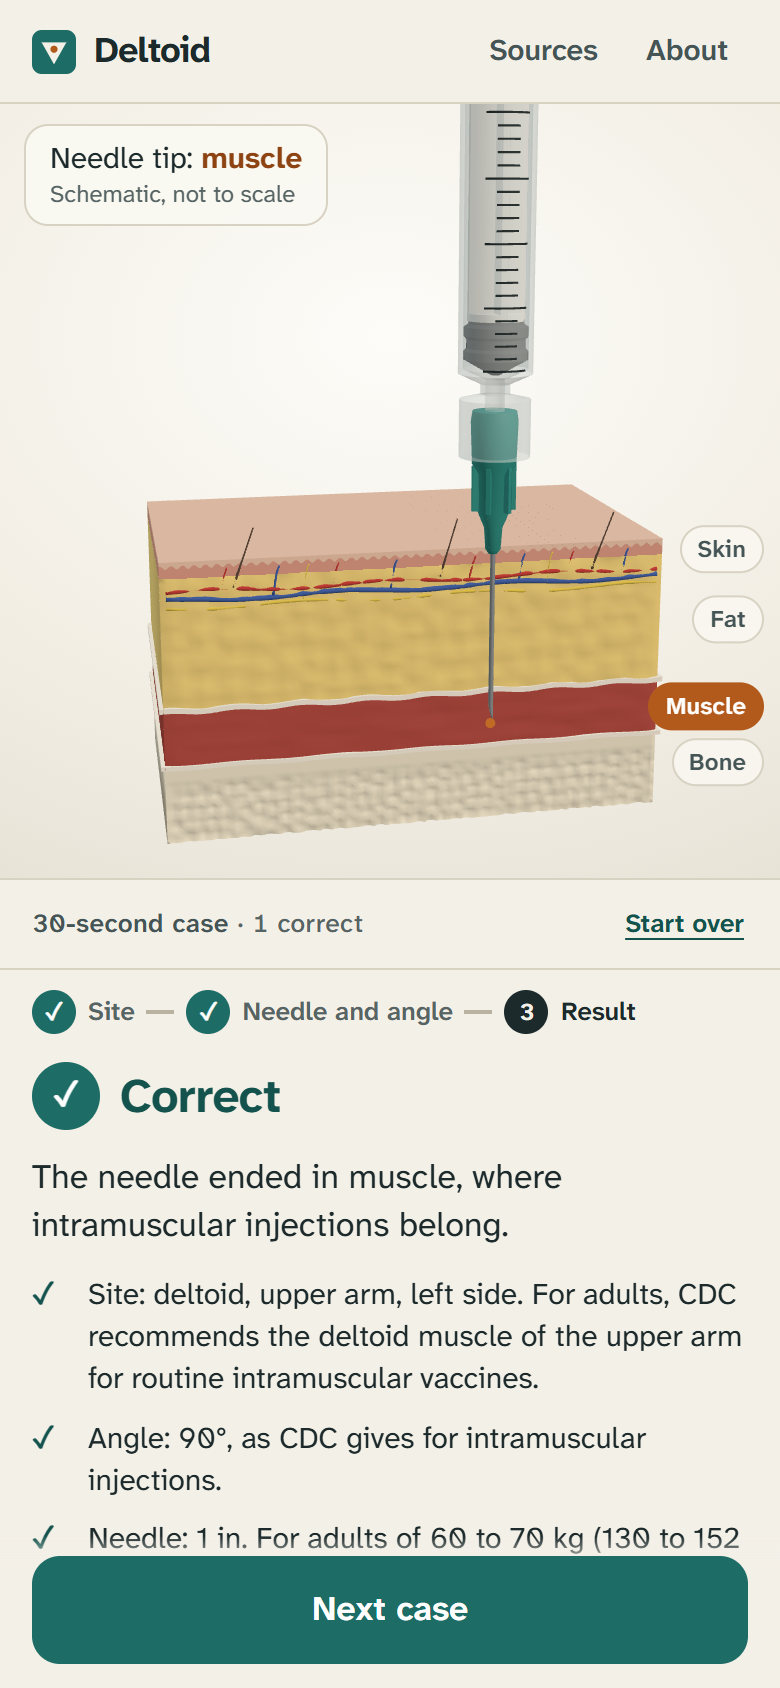
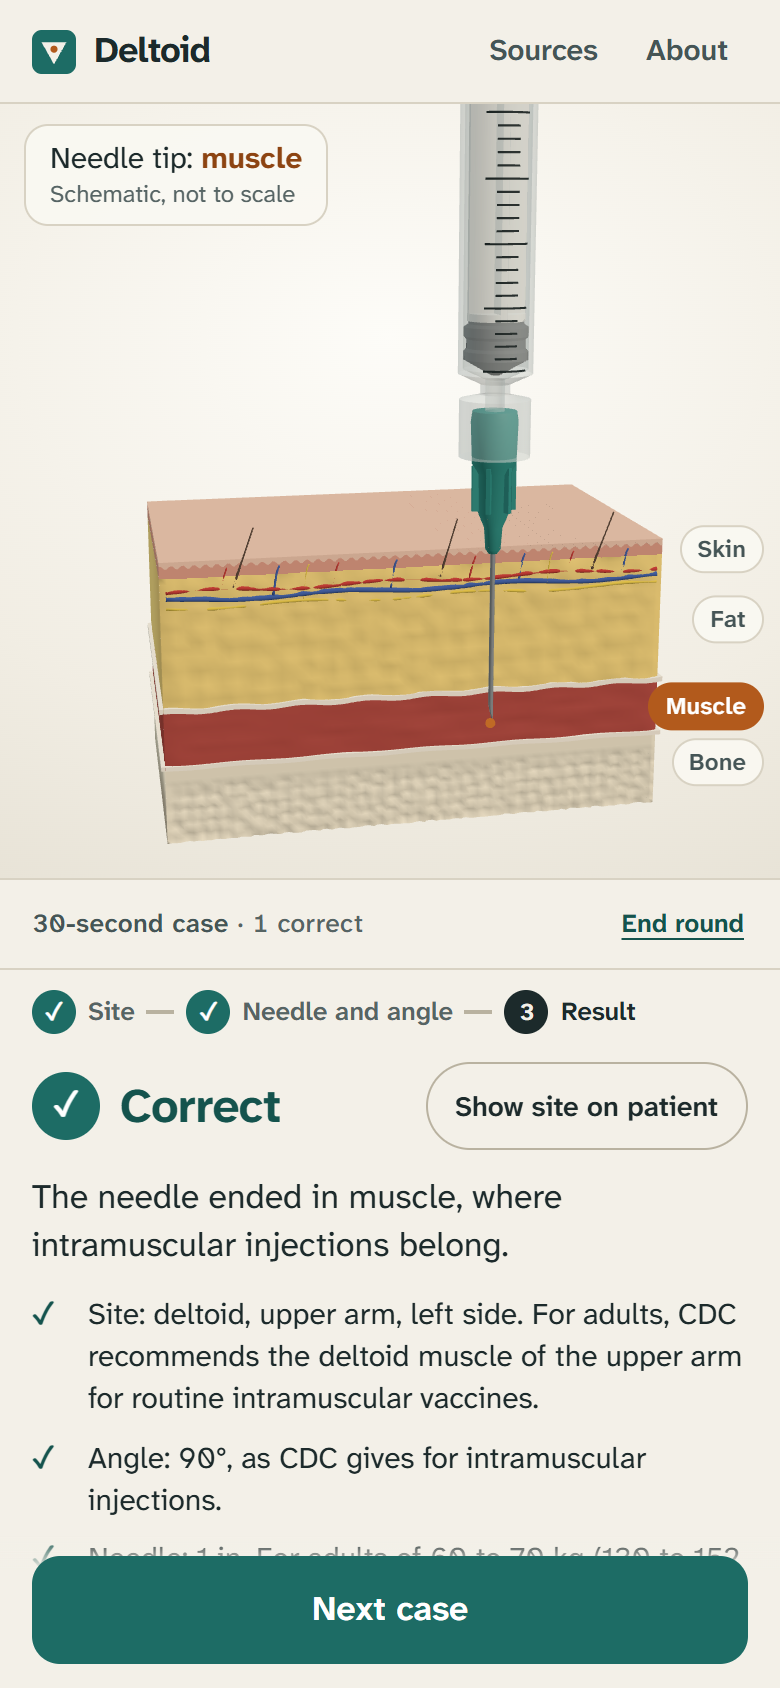
Bring the README and screenshots up to date
Covers the answer comparison, CDC's site on the patient, End round,
repeat rounds in a new order, keyboard use, the dark theme and the
contrast audit. Adds three screenshots and refreshes two.

diff --git a/README.md b/README.md
@@ -10,6 +10,11 @@ A 3D injection site trainer for medical assistants. Pick the route, tap the site
   <img src="docs/phone-cutaway.png" alt="Needle and angle controls with the tissue cutaway, the needle tip in muscle" width="24%">
   <img src="docs/phone-result.png" alt="Result: correct, with the tissue reached and the CDC source" width="24%">
 </p>
+<p>
+  <img src="docs/phone-miss.png" alt="After a miss: what you chose beside CDC's answer for the site, needle and angle" width="24%">
+  <img src="docs/phone-site-on-patient.png" alt="CDC's site shown on the patient with landmarks, and the learner's tap marked" width="24%">
+  <img src="docs/phone-dark.png" alt="Dark theme: needle and angle chosen, the tip in fat" width="24%">
+</p>
 
 ## Important
 
@@ -31,19 +36,22 @@ Those rules are spread across several CDC job aids, tables and guidelines. Delto
 
 1. **Read the case card.** It names the patient (for example "Man, 47 years, 100 kg (220 lb)"), the scenario and the route, with the route explained in plain words ("into the muscle"). Some cases add a constraint, such as "Neither upper arm can be used today."
 2. **Tap the site.** The camera starts on the body. Body, Arm, Thigh and Hip buttons move it, and you can drag to turn and pinch to zoom. "Show landmarks" makes the skin translucent and shows the bones, muscles and labelled bony points underneath. When you tap, a marker drops on the skin and the panel names what you tapped. A short bar fills, then the needle step opens. If the 3D view is hard to use, "Choose the site from a list instead" offers the same sites as buttons.
-3. **Pick a needle and an angle.** Needles run from the tuberculin needle (¼ to ½ inch) to 1½ inch, with millimetres under each inch label. Each angle button has a small drawing of the needle meeting the skin. The camera turns to a cutaway of skin, fat, muscle and bone, and the syringe moves as you choose, so you see where the tip will end before you commit.
-4. **Check the answer.** The result says "Correct" or "Not quite", which tissue the needle ended in, and what was off. Below that is one line for each part (site, angle and needle) with the CDC wording behind it and its sources. After a miss, a "CDC's answer" card shows the right site, needle and angle.
+3. **Pick a needle and an angle.** Needles run from the tuberculin needle (¼ to ½ inch) to 1½ inch, with millimetres under each inch label. Each angle button has a small drawing of the needle meeting the skin. The camera turns to a cutaway of skin, fat, muscle and bone, and the syringe moves as you choose, so you see where the tip will end before you commit. Until both are chosen, the check button says what it is waiting for.
+4. **Check the answer.** The result says "Correct" or "Not quite", which tissue the needle ended in, and what was off. After a miss, a table puts what you chose beside CDC's answer for the site, needle and angle, each marked right or off. Below that is one line for each part with the CDC wording behind it and its sources.
+5. **See the site.** "Show site on patient" switches the 3D view from the cutaway back to the patient: landmarks on, only CDC's injection area drawn, the camera turned to it, and your own tap still marked. The panel adds CDC's description of how to find the site.
 
-The 30-second case on the first screen is this flow with one adult patient, and takes four taps after it opens. Practice mode runs all ten cases in order.
+The 30-second case on the first screen is this flow with one adult patient, and takes four taps after it opens. Practice mode runs all ten cases, in the written order the first time and in a new order on each repeat.
 
 ## What it does
 
 - **Ten practice cases.** Adults and infants across intramuscular, subcutaneous and intradermal routes (see the table below). A bar per case tracks correct and missed answers, and a step indicator shows where you are inside a case.
 - **Specific feedback.** Not just right or wrong. A wrong site is explained ("For most infants under 12 months, CDC recommends the outer front of the thigh, because it has more muscle than the deltoid"). So is a needle that is too short to reach the muscle, or longer than CDC lists for that patient, and a tap that missed every injection area is named by body region ("the upper third of the thigh").
-- **Learn from misses.** "Try again" reruns a missed case. The retry is graded but does not change the score. The review lists every case with what was off, repeats each miss with CDC's answer, and offers a round of just the missed cases.
+- **Learn from misses.** "Try again" reruns a missed case. The retry is graded but does not change the score. The review lists every case with what was off, repeats each miss with your answer beside CDC's, and offers a round of just the missed cases.
+- **Stop when you need to.** Once a case is answered, "End round" opens the review for the cases done so far, so leaving early does not throw the round away.
 - **Landmarks on demand.** "Show landmarks" reveals the skeleton, the injection muscles and the labelled bony landmarks: acromion, armpit fold, elbow joint, greater trochanter, iliac crest, anterior superior iliac spine and lateral condyle.
 - **Sources everywhere.** Every line of feedback carries the CDC documents it came from. The Sources screen lists each one with its publisher, date and access date.
-- **Phone first.** Controls are at least 44 px and sit in the lower half of the screen, under the thumb. On a desktop the controls move to a side panel.
+- **Phone first.** Controls are at least 44 px and sit in the lower half of the screen, under the thumb. On the review the 3D view shrinks to a strip so the list has room. On a desktop the controls move to a side panel.
+- **Light and dark.** The theme follows the device setting.
 
 <p>
   <img src="docs/desktop-review.png" alt="Desktop: the review lists every case with what was off, and offers a round of the missed cases" width="80%">
@@ -117,8 +125,9 @@ Left out because CDC does not give a value: volume limits per site, intradermal 
 ## Accessibility
 
 - Every control is a native button with a visible text label, and the site can be chosen from a list, so no step depends on using the 3D view.
+- A case can be answered with the keyboard alone. Each step takes focus as it opens, so Tab carries on from the step's own controls instead of the top of the page. On the site step the 3D view can be focused: the arrow keys turn the patient, plus and minus zoom.
 - Status changes (the site you marked, the result) are in live regions for screen readers. The 3D view has a text description that changes with the step and points to the site list.
-- Text and controls meet WCAG AA contrast. The colour used for small labels was measured at 4.36:1 on cards and darkened to 5.0:1.
+- Text meets WCAG AA contrast in both the light and the dark theme. This is measured, not assumed: the scripted checks walk the main screens in each theme and compare every piece of visible text with what is painted behind it.
 - With reduced motion requested, the patient does not turn on its own, camera moves are instant, step transitions are off, and the wait before the needle step drops from 800 ms to 250 ms.
 - Atkinson Hyperlegible Next, a typeface designed for low-vision readers, is self-hosted.
 - If WebGL is unavailable, the app says so plainly and names browsers to try instead of showing a blank canvas.
@@ -167,12 +176,15 @@ clinical.ts ──► grading.ts ──► Trainer.tsx ──► Stage3D.tsx ─
 
 ## Testing
 
-`npm run e2e` drives the real app in Edge or Chrome with touch input, through `playwright-core`, and saves screenshots. It runs 29 checks in five set-ups:
+`npm run e2e` drives the real app in Edge or Chrome, through `playwright-core`, and saves screenshots. It runs 45 checks in eight set-ups:
 
 | Set-up | What it checks |
 | --- | --- |
-| Phone, 390×844, touch | The first screen fits without scrolling and every control is at least 44 px. A drag and a pinch do not place a site. Landmark labels stay clear of the controls. The 30-second case is answered correctly in four taps, with the tap landing in the deltoid area and the cutaway reporting muscle. A wrong answer names the tissue and what was off, shows CDC's answer, and Try again keeps the score. About carries the synthetic-data and educational statements, Sources lists every citation with a link and access date, and there are no console errors. |
+| Phone, 390×844, touch | The first screen fits without scrolling and every control is at least 44 px. A drag and a pinch do not place a site. Landmark labels stay clear of the controls. The 30-second case is answered correctly in four taps, with the tap landing in the deltoid area and the cutaway reporting muscle. The check button says what it is waiting for. A wrong answer names the tissue and what was off and shows CDC's answer. CDC's site can be shown on the patient, with landmarks and how to find it, and the cutaway comes back. Try again keeps the score. End round opens a review of the cases answered so far, with the 3D view stepped back, and a repeat round opens on a different case. About carries the synthetic-data and educational statements, Sources lists every citation with a link and access date, and there are no console errors. |
 | Desktop, 1280×800 | The side panel flow, choosing the site from the list. A full ten-case practice run, then the review with every case, each miss with CDC's answer and sources, and a round of just the missed cases. |
+| Keyboard only, 1280×800 | With Tab, Shift+Tab and Enter alone: start a case, turn the patient with the arrow keys, pick the site from the list, pick the needle and angle, and check the answer. Focus is on each step as it opens. |
+| Contrast, light theme | Every piece of visible text on the first screen, the site step, the needle step, a missed result, the site view, the review, Sources and About is at least 4.5:1 against what is painted behind it (3:1 for large text). The audit first proves itself on a grey-on-grey sample. |
+| Contrast, dark theme | The same walk with the device set to dark, and the page really is dark. |
 | Small phone, 360×640 | The first screen still fits and the view buttons stay on screen. |
 | WebGL unavailable | A clear message appears instead of a blank canvas. |
 | Reduced motion | The patient does not turn on its own. |
@@ -215,6 +227,7 @@ docs/                Screenshots used in this README
 
 ## Limits
 
-- Tested in emulated phone and desktop browsers, not yet on a range of physical phones, and not yet with a screen reader or keyboard-only use.
+- Tested in emulated phone and desktop browsers, not yet on a range of physical phones. Keyboard use is covered by a scripted run, but it has not been tried with a screen reader.
+- The contrast audit measures text over the 3D view against its own label background, not against the pixels of the 3D scene behind it.
 - Covers only what CDC's vaccine administration and tuberculin skin test sources state. It does not grade volume, aspiration, skin preparation, or anything drug-specific.
 - The two patients are generic body shapes. Real patients vary, which is why CDC's needle rules are by weight and why clinical judgement and supervised training still apply.
